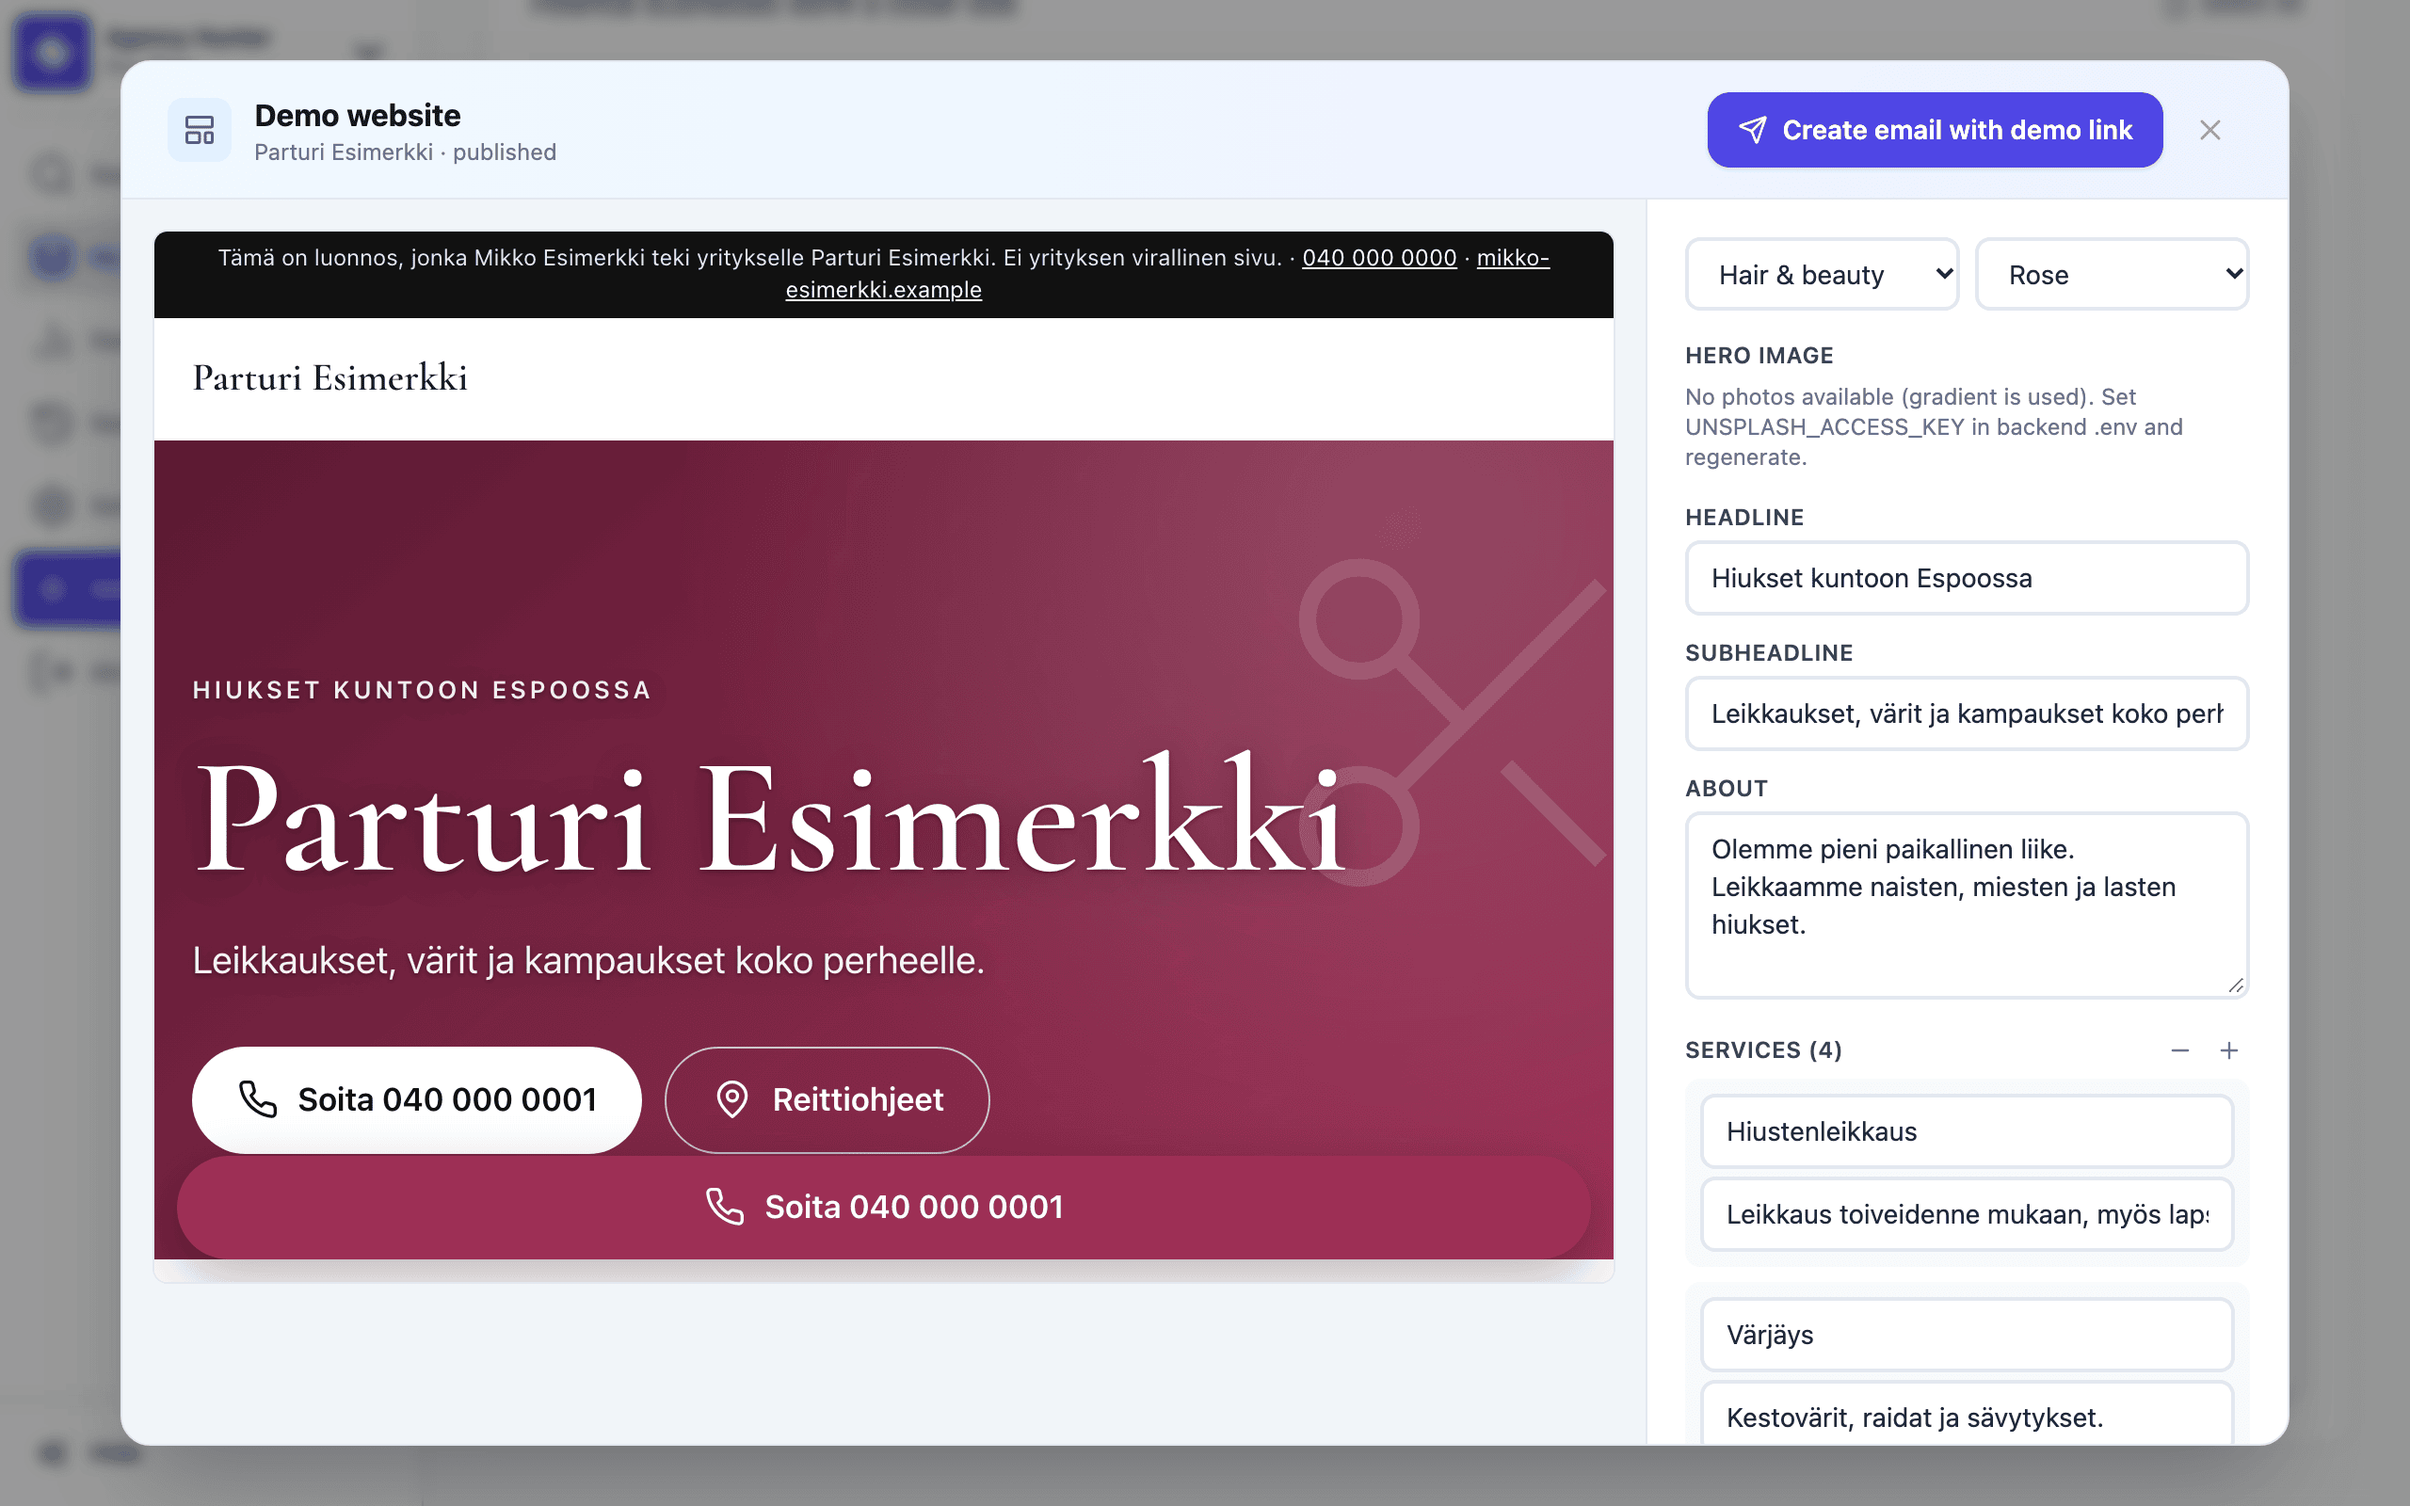
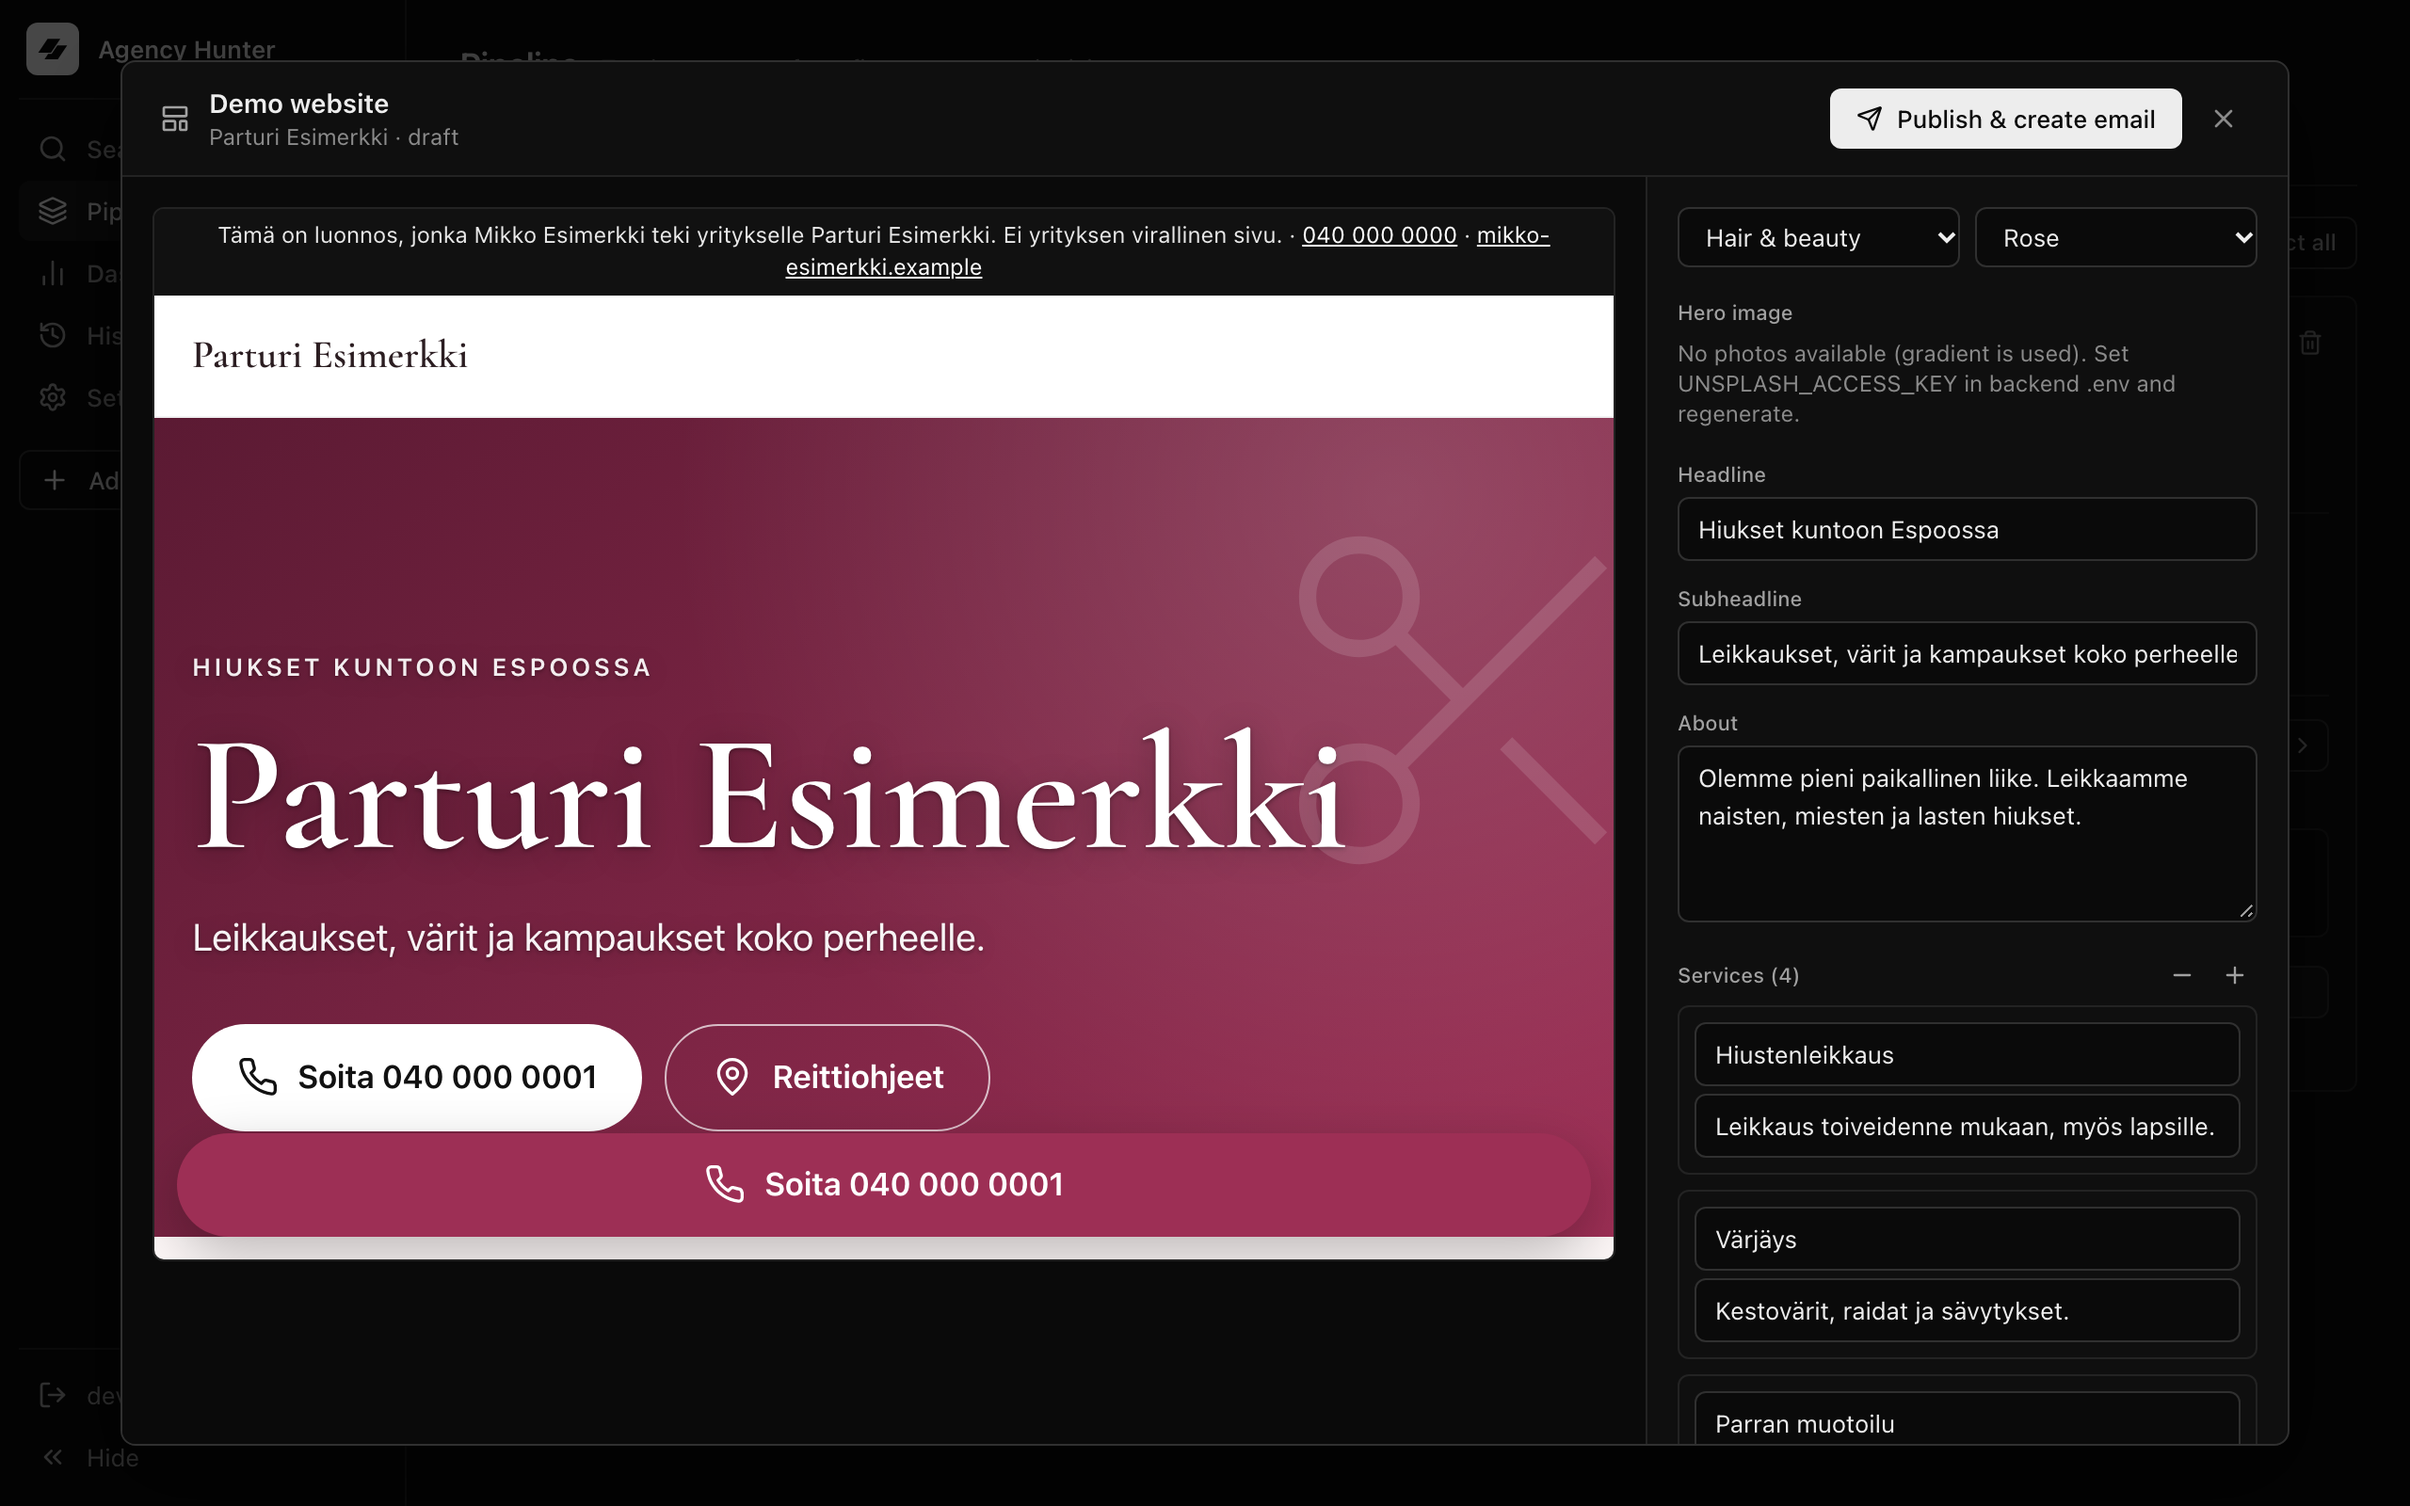
Docs: Phase 14 ulkoasu, design tokenit ja uudet kuvakaappaukset

diff --git a/docs/save_state.md b/docs/save_state.md
@@ -191,7 +191,7 @@ Places-sisältö: aukioloajat haetaan vain generoinnin hetkellä ja tallentuvat 
 - **Riippuvuudet**: `backend/requirements.txt` lukittu tarkkoihin versioihin (`==`), testattu Python 3.13:lla puhtaassa venvissä. Päivitä versioita tietoisesti, ei automaattisesti
 - **Testit**: pytest + FastAPI TestClient (`backend/tests/`, dev-riippuvuudet `backend/requirements-dev.txt`). `conftest.py` asettaa env-muuttujat ennen app-importtia (ei `backend/.env`:n oikeita avaimia/kantaa), käyttää in-memory SQLiteä (StaticPool) ja `dependency_overrides`-mekanismia `get_session`- ja `verify_token`-dependencyille. Käyttäjä valitaan `X-Test-User`-headerilla (`client_a` / `client_b` -fixturet) tenant-isolaation testaamiseen. Autouse-fixture estää oikeat kutsut (requests, OpenAI, scraping, SMTP); testit mockaavat tarvitsemansa
 - **CI**: GitHub Actions (`.github/workflows/ci.yml`) push- ja pull_request-eventeillä: backend (Python 3.13, pytest) ja frontend (Node 22, `npm ci` + lint + build). Ei API-avaimia
-- **UI hakutuloksille**: LeadTable — score-badge (75+ vihreä, 50+ lime, 25+ keltainen, muuten harmaa), rating + arvostelumäärä, Google Maps -linkki, "Temporarily closed" -merkintä, "In pipeline" jo tallennetuille (Save-nappi piilossa), `website_issue` status-badgen alla. Oletusjärjestys score desc, sarakkeet Score/Business/Rating/Status klikattavia (Status: NO WEBSITE > BROKEN > INSECURE > NOT MOBILE > UNKNOWN > OK). Hakutulosten yläpuolella "N API calls, ~$X" (mock: "Mock data, 0 API calls"). PipelineCard näyttää scoren, ratingin ja issuen. Dashboardin "opportunity"-luku ei laske UNKNOWN-tilaa
+- **UI hakutuloksille**: LeadTable — score (numero + ohut pistepalkki; 75+ vihreä, 50+ lime, 25+ keltainen, muuten harmaa), rating + arvostelumäärä, Google Maps -linkki, "Temporarily closed" -merkintä, "In pipeline" jo tallennetuille (Save-nappi piilossa), `website_issue` status-badgen alla. Oletusjärjestys score desc, sarakkeet Score/Business/Rating/Status klikattavia (Status: NO WEBSITE > BROKEN > INSECURE > NOT MOBILE > UNKNOWN > OK). Hakutulosten yläpuolella "N API calls, ~$X" (mock: "Mock data, 0 API calls"). PipelineCard näyttää scoren, ratingin ja issuen. Dashboardin "opportunity"-luku ei laske UNKNOWN-tilaa
 - **Tietokanta**: Dev SQLite, tuotanto PostgreSQL (Supabase). `DATABASE_URL` tukee `postgres://`- ja `postgresql://`-muotoja, Postgresissa pool_pre_ping + pool_size=5
 
 ## Pisteytys (lead_score)
@@ -277,6 +277,17 @@ VITE_SUPABASE_ANON_KEY=
 
 React 19, Tailwind CSS 3, framer-motion, lucide-react, sonner
 
+## Ulkoasu ja design tokenit
+
+- Tumma teema ("Mono"): neutraalit harmaat, aksentti lähes valkoinen (`accent`, teksti `accent-fg`), ohuet reunat, varjo vain kelluville pinnoille (`shadow-overlay`, `shadow-popover`)
+- Tokenit CSS-muuttujina `src/index.css` (`:root`, RGB-kanavat) → semanttiset nimet `tailwind.config.js`:ssä. Komponentit käyttävät vain näitä (ei `slate-*`/`indigo-*` tms.):
+  - Pinnat: `canvas` (sivu), `surface` (paneelit, kortit), `subtle` (hover), `raised` (sekundaarinapit, chipit); reunat `line`, `line-strong`
+  - Teksti: `fg`, `fg-muted`, `fg-subtle` (kaikki ≥ 4.5:1 jokaisella pinnalla)
+  - Merkitykselliset: `score-hot/good/fair/low`, `status-none/broken/insecure/mobile/unknown/ok`, `success`, `danger`, `warning` (taustat opacity-modifierilla, esim. `bg-danger/10`)
+  - Koot: `h-control` (32 px), `h-control-sm` (28 px), `p-card`, `px-cell-x`/`py-cell-y`, `px-page-x`/`py-page-y`; pyöristykset `rounded-sm` 4, `rounded` 6, `rounded-lg` 8 (isommat poistettu asteikosta)
+- Fokus: globaali `:focus-visible`-rengas (`--color-focus`); kentissä reuna + 1 px outline
+- Linkit: sama väri kuin teksti, hillitty alleviivaus joka vahvistuu hoverilla
+
 ## Tiedostorakenne (avaintiedostot)
 
 ```
@@ -316,6 +327,6 @@ src/components/SidebarNav.tsx   — Sivupalkki-navigaatio (search | pipeline | d
 src/components/SettingsView.tsx — Lähettäjäprofiilin lomake (GET/PUT /sender-profile)
 src/components/DemoModal.tsx   — Demosivun generointi, esikatselu, pohja/värit, tekstien muokkaus
 src/components/LeadTable.tsx    — Hakutulosten taulukko (järjestettävät sarakkeet, score, rating, Maps, In pipeline, website_issue)
-src/components/ScoreBadge.tsx   — ScoreBadge + RatingDisplay (LeadTable ja PipelineCard)
+src/components/ScoreBadge.tsx   — ScoreBadge (numero + pistepalkki), RatingDisplay, StatusBadge (LeadTable, PipelineCard, Dashboard)
 src/types/agency.ts            — SearchResponse, SearchUsage, SearchResult, Agency, SavedAgency, WebsiteStatus, BusinessStatus, PipelineStatus, NavTab
 ```

diff --git a/docs/roadmap.md b/docs/roadmap.md
@@ -102,6 +102,13 @@
   - Julkaisuvirhe → selkeä viesti, ei sähköpostia; do_not_contact estää koko ketjun
   - Korjaus: testit eristetty oikeasta R2:sta ja Unsplashista (regressio + testi)
   - Selaintesti (Playwright, fake OpenAI + fake R2) kaikille vaiheille
+- **Phase 14**: Sovelluksen ulkoasun uudistus (demosivut ennallaan):
+  - Suunta "Mono": tumma oletusteema, neutraalit harmaat, aksentti lähes valkoinen, ohuet reunat varjojen sijaan (varjo vain modaaleissa/popovereissa), pyöristykset 4/6/8 px, tiiviimpi taulukko
+  - Design tokenit: CSS-muuttujat `src/index.css` (RGB-kanavina, opacity-modifierit toimivat) → semanttiset Tailwind-nimet `tailwind.config.js` (`canvas`, `surface`, `raised`, `line`, `fg`, `accent`, `score-*`, `status-*`, `h-control`, `p-card` ...). Komponenteissa ei kovakoodattuja värejä
+  - Statusvärit vain merkityksellisissä kohdissa: score (numero + ohut pistepalkki taulukossa ja kortissa) ja sivun tila (piste + teksti, yhteinen `StatusBadge`). Pipeline-vaiheet neutraaleja
+  - Saavutettavuus: tekstikontrastit ≥ 4.5:1 (WCAG AA), näkyvä `:focus-visible`-rengas, linkit alleviivattu hillitysti (vahvistuu hoverilla), label/aria-attribuutit lomakkeisiin, dialogeihin ja ikoninapeille, History-rivin toiminnot näkyvät myös näppäimistöfokuksella
+  - Layout: lyhyemmät navigaationimet, sivuotsikko + kuvaus, PipelineCardin yhteystiedot listana ja toiminnot yhdellä rivillä, "Pro Plan" poistettu
+  - Tarkistettu Playwrightilla 1280 ja 1440 px, `docs/media`-kuvakaappaukset päivitetty
 
 ## Seuraavaksi
 
